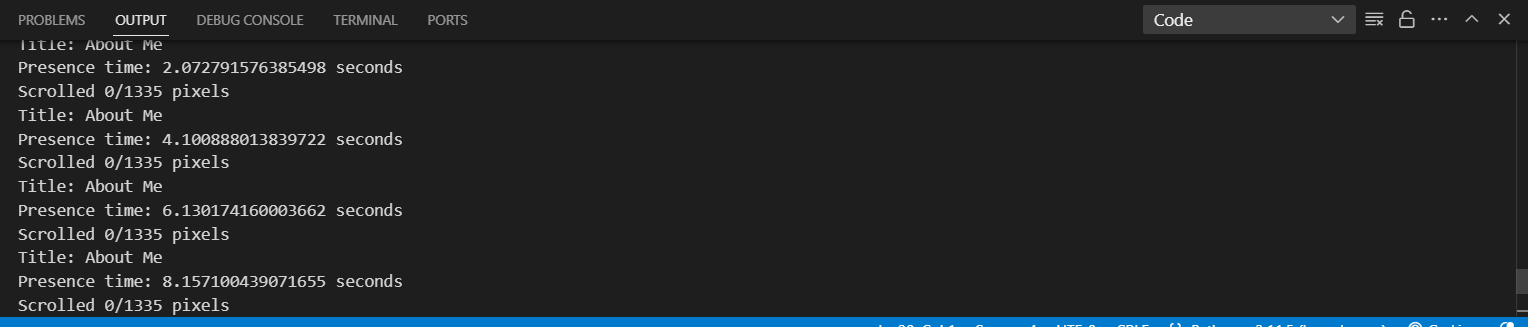
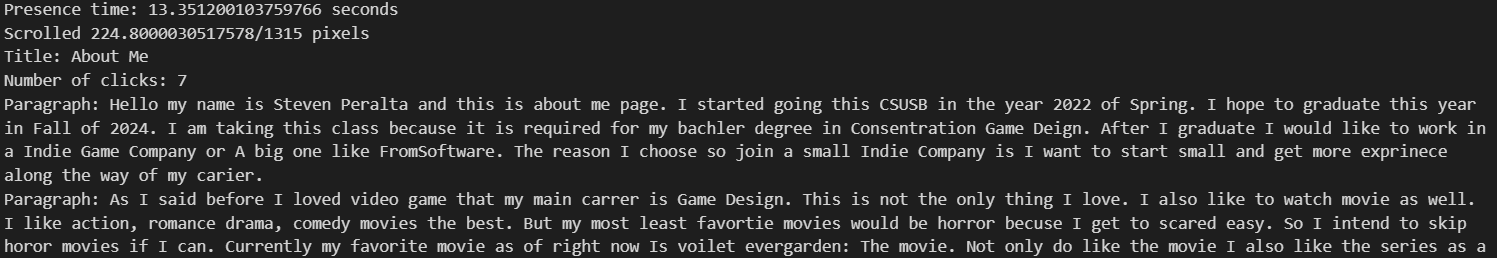
Update

diff --git a/Assignment_2_User_Interactions/Metrick_tracker/metric_tracker.py b/Assignment_2_User_Interactions/Metrick_tracker/metric_tracker.py
@@ -29,10 +29,15 @@ while True:
 
     #Track clicks
     button = driver.find_element(By.TAG_NAME, "button")
-    #num_clicks = 0
     button.click()
     num_clicks += 1
     print(f"Number of clicks: {num_clicks}")
+
+    # Monitor paragraph contents
+    paragraphs = driver.find_elements(By.TAG_NAME, "p")
+    for paragraph in paragraphs:
+        paragraph_text = paragraph.text
+        print(f"Paragraph: {paragraph_text}")
 
     time.sleep(2) 
 

diff --git a/Assignment_2_User_Interactions/Readme.md b/Assignment_2_User_Interactions/Readme.md
@@ -2,7 +2,7 @@
 
 PROVIDE OVERVIEW OF ASSIGNMENT HERE
 
-Time spent: **8** hours spent in total
+Time spent: **10** hours spent in total
 
 ## Features
 
@@ -12,12 +12,12 @@ The following **required** features are completed:
 - [x] Transfer your About Me Page into a React App with screenshot of output in the Images folder(3 pt)
 - [x] Set up Selenium (2 pt)
 - [x] Write your first Selenium script with screenshot of output in the Images folder (4 pt)
-- [ ] Monitor at least 2 metrics using Selenium with screenshot of output in the Images folder (4 pt)
+- [x] Monitor at least 2 metrics using Selenium with screenshot of output in the Images folder (4 pt)
 
 The following **bonus** features are implemented:
 
 - [ ] Saves metrics into csv file (1 pt)
-- [ ] Monitors at least 4 metrics (1 pt)
+- [x] Monitors at least 4 metrics (1 pt)
 - [ ] DESCRIBE ANY OTHER FEATURES HERE.
 
 ## Screenshot and/or Video Walkthrough
@@ -33,6 +33,7 @@ The following **bonus** features are implemented:
 ## Notes:
 PROVIDE RELEVANT OR ADDITIONAL INFORMATION HERE. Below are formatting options to add emphasis in text
 <ul>
-  <li>**Example in bold**</li>
-  <li>*Example in italics*</li>
+  <li>Made a Monitor for button click, use scroll monitor, and see how long people are in page</li>
+  <li>I aslo add a monitor that gets the title and the contex of thr paragraph</li>
+  <li>For the metrick tracker It hard to see it updates the monitor because of the paragrath but it does monitor them.</li>
 </ul>
